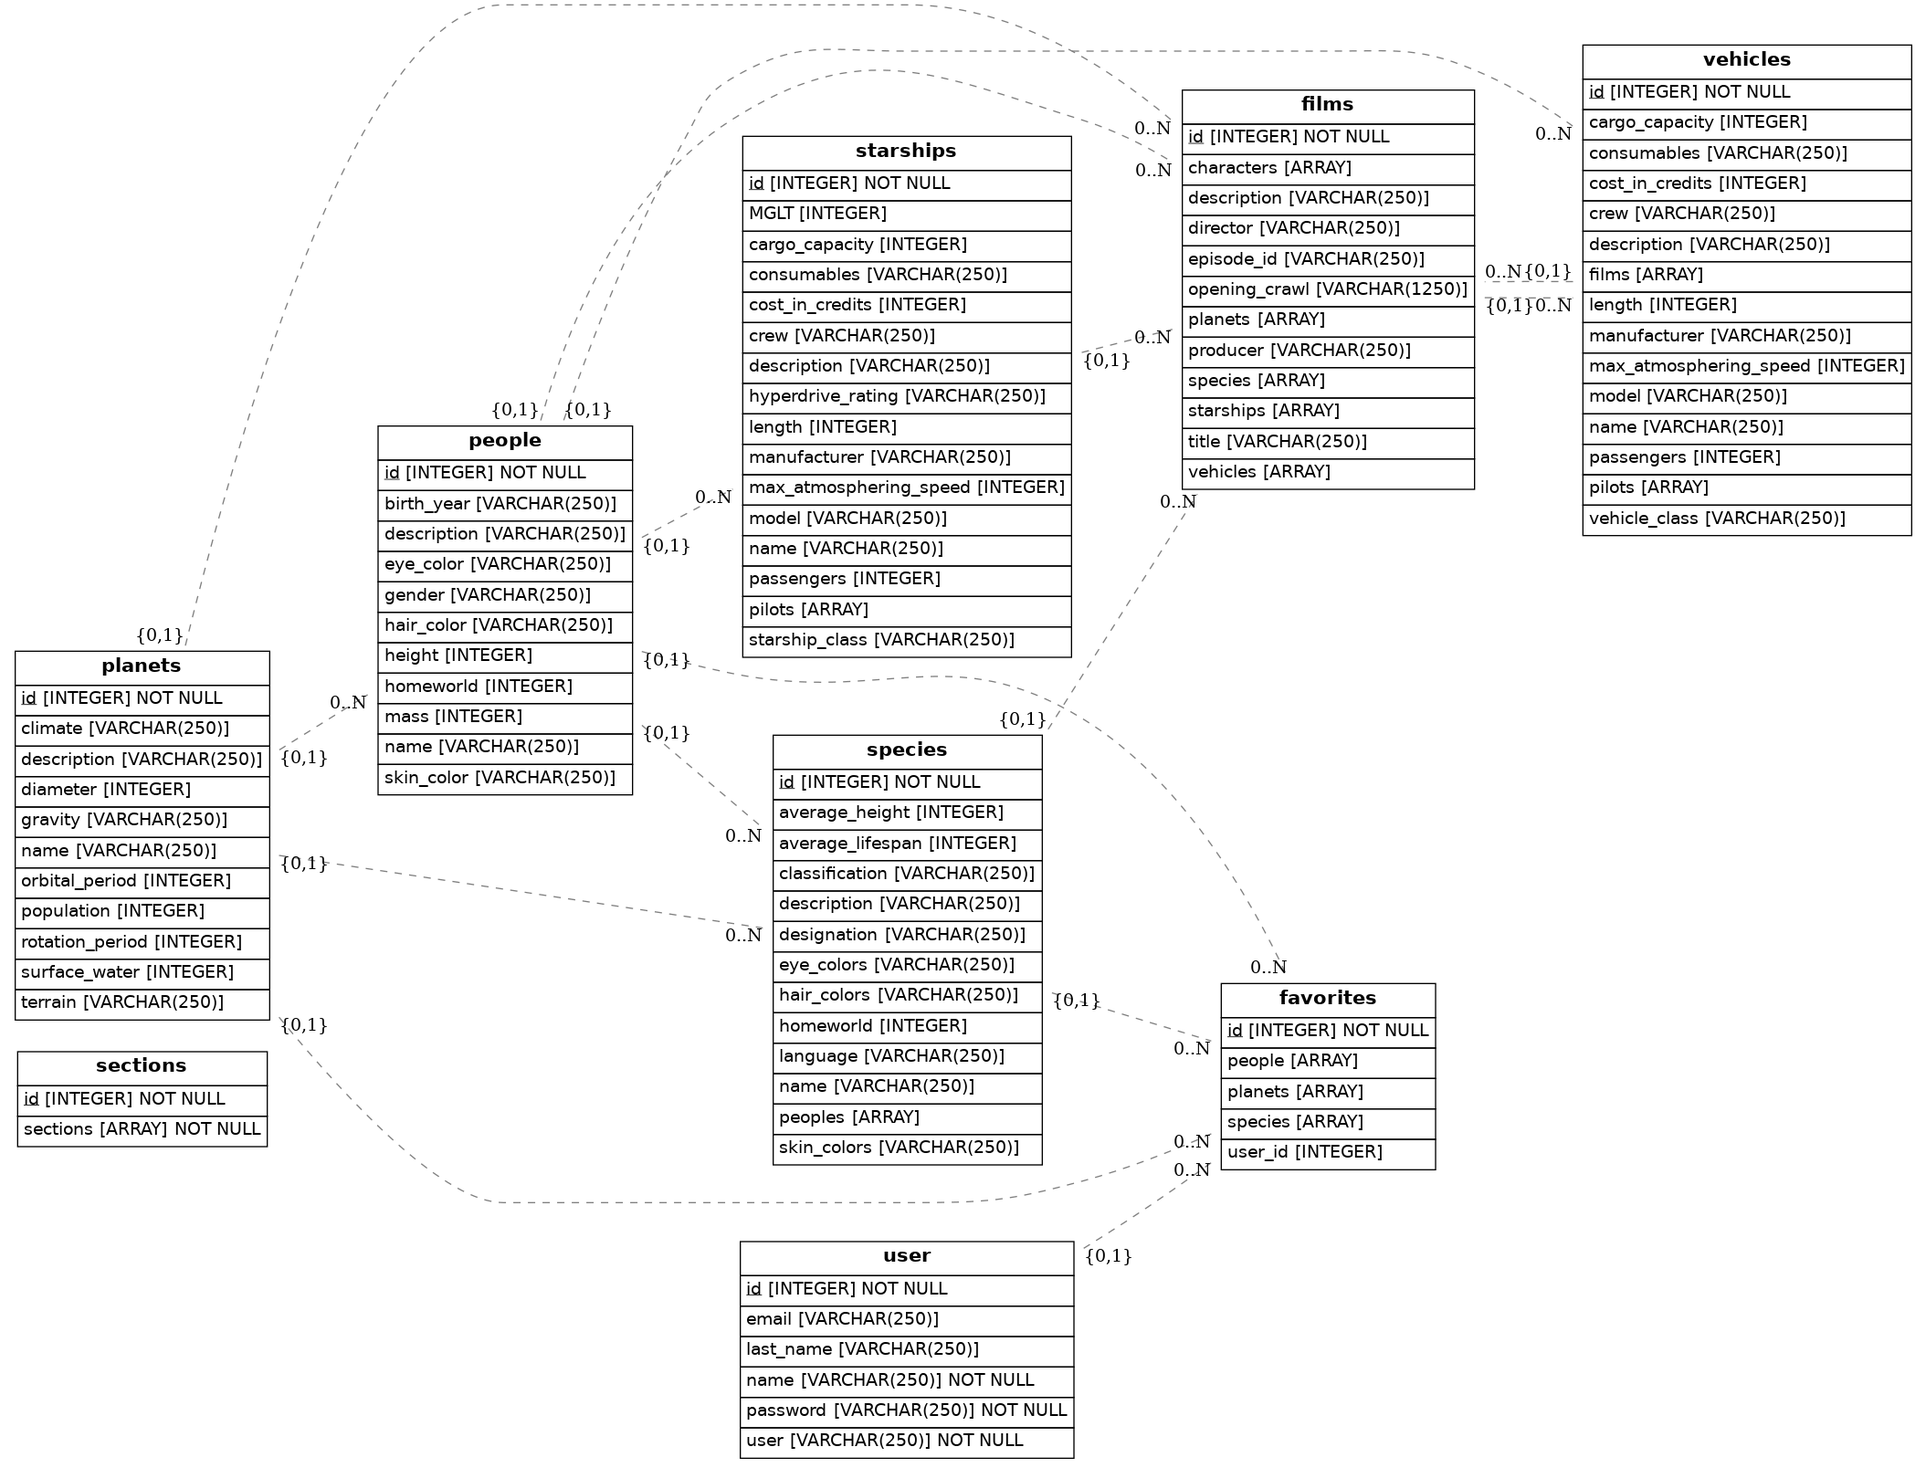
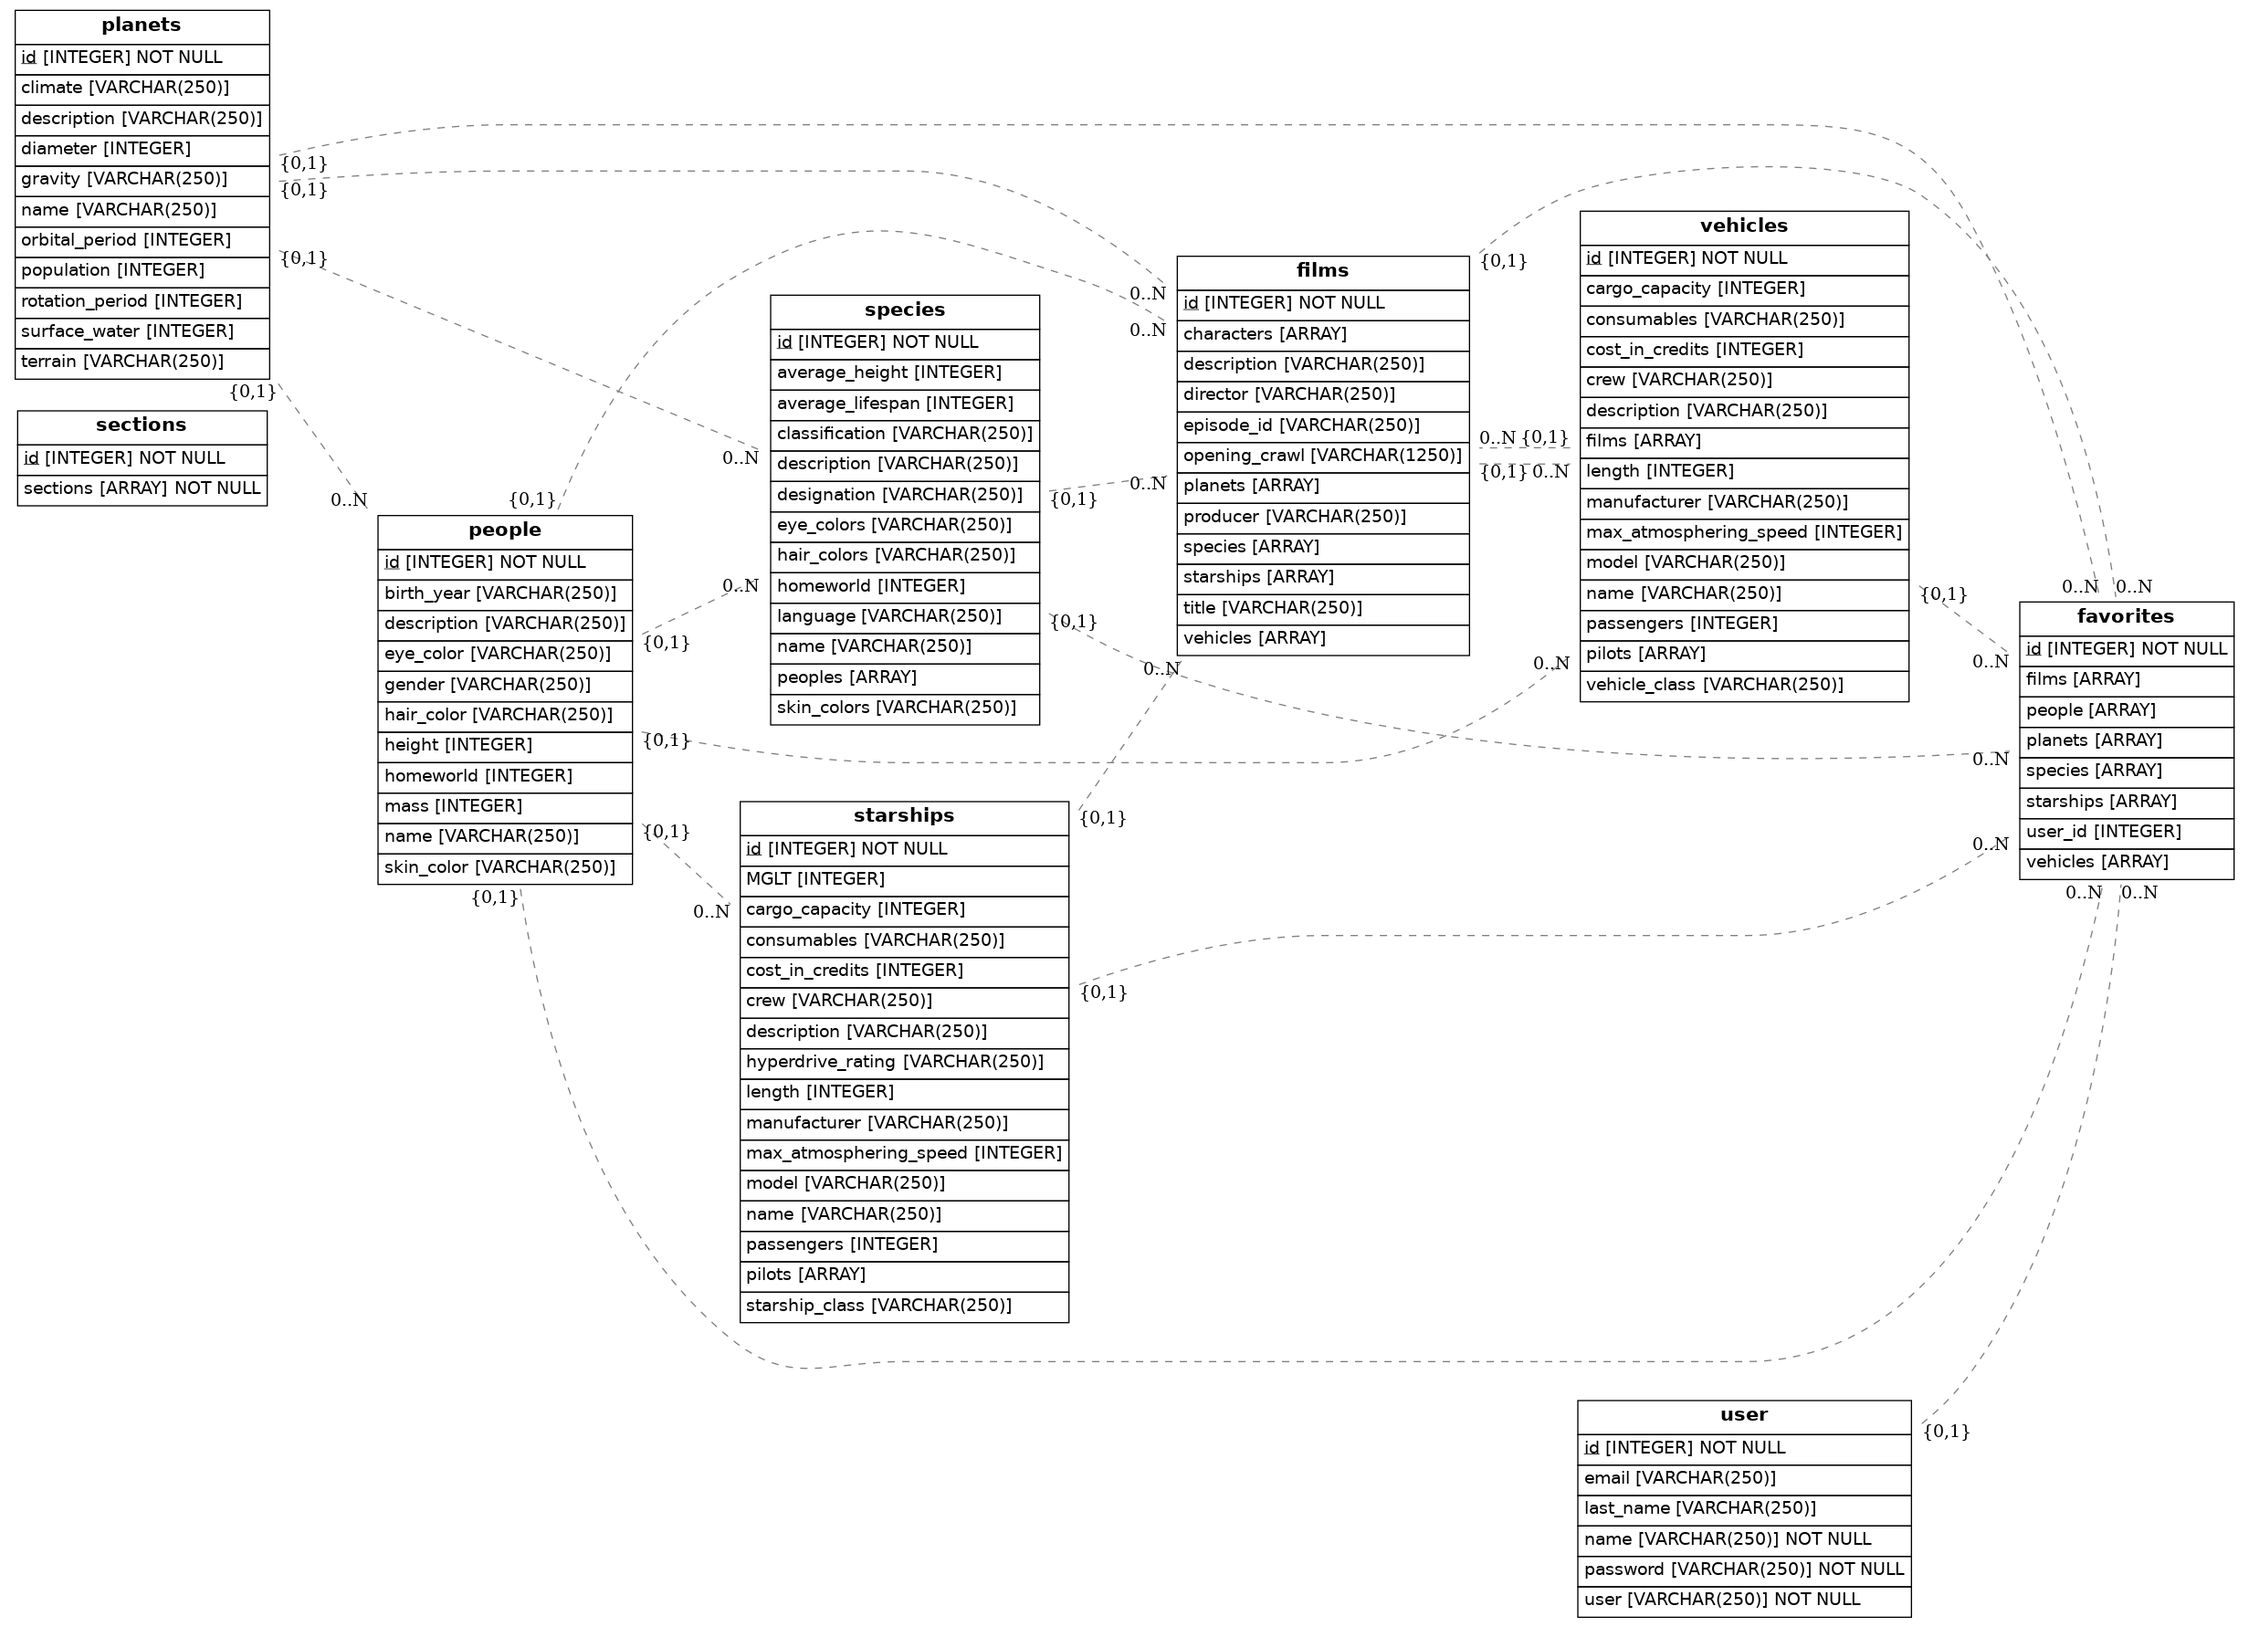
Finalizado, faltaba favoritos

diff --git a/src/models.py b/src/models.py
@@ -148,10 +148,13 @@ class Favorites(Base):
 
     id = Column(Integer, primary_key=True)
     user_id = Column(Integer, ForeignKey('user.id'))
-    species = Column(ARRAY(String(500)), ForeignKey('species.id'))
     people = Column(ARRAY(String(500)), ForeignKey('people.id'))
     planets = Column(ARRAY(String(500)), ForeignKey('planets.id'))
-    rels = relationship(User, Species, People, Planets)
+    starships = Column(ARRAY(String(500)), ForeignKey('starships.id'))
+    vehicles = Column(ARRAY(String(500)), ForeignKey('vehicles.id'))
+    species = Column(ARRAY(String(500)), ForeignKey('species.id'))
+    films = Column(ARRAY(String(500)), ForeignKey('films.id'))
+    rels = relationship(User, People, Planets, Starships, Vehicles, Species, Films)
 
     def to_dict(self):
         return {}
